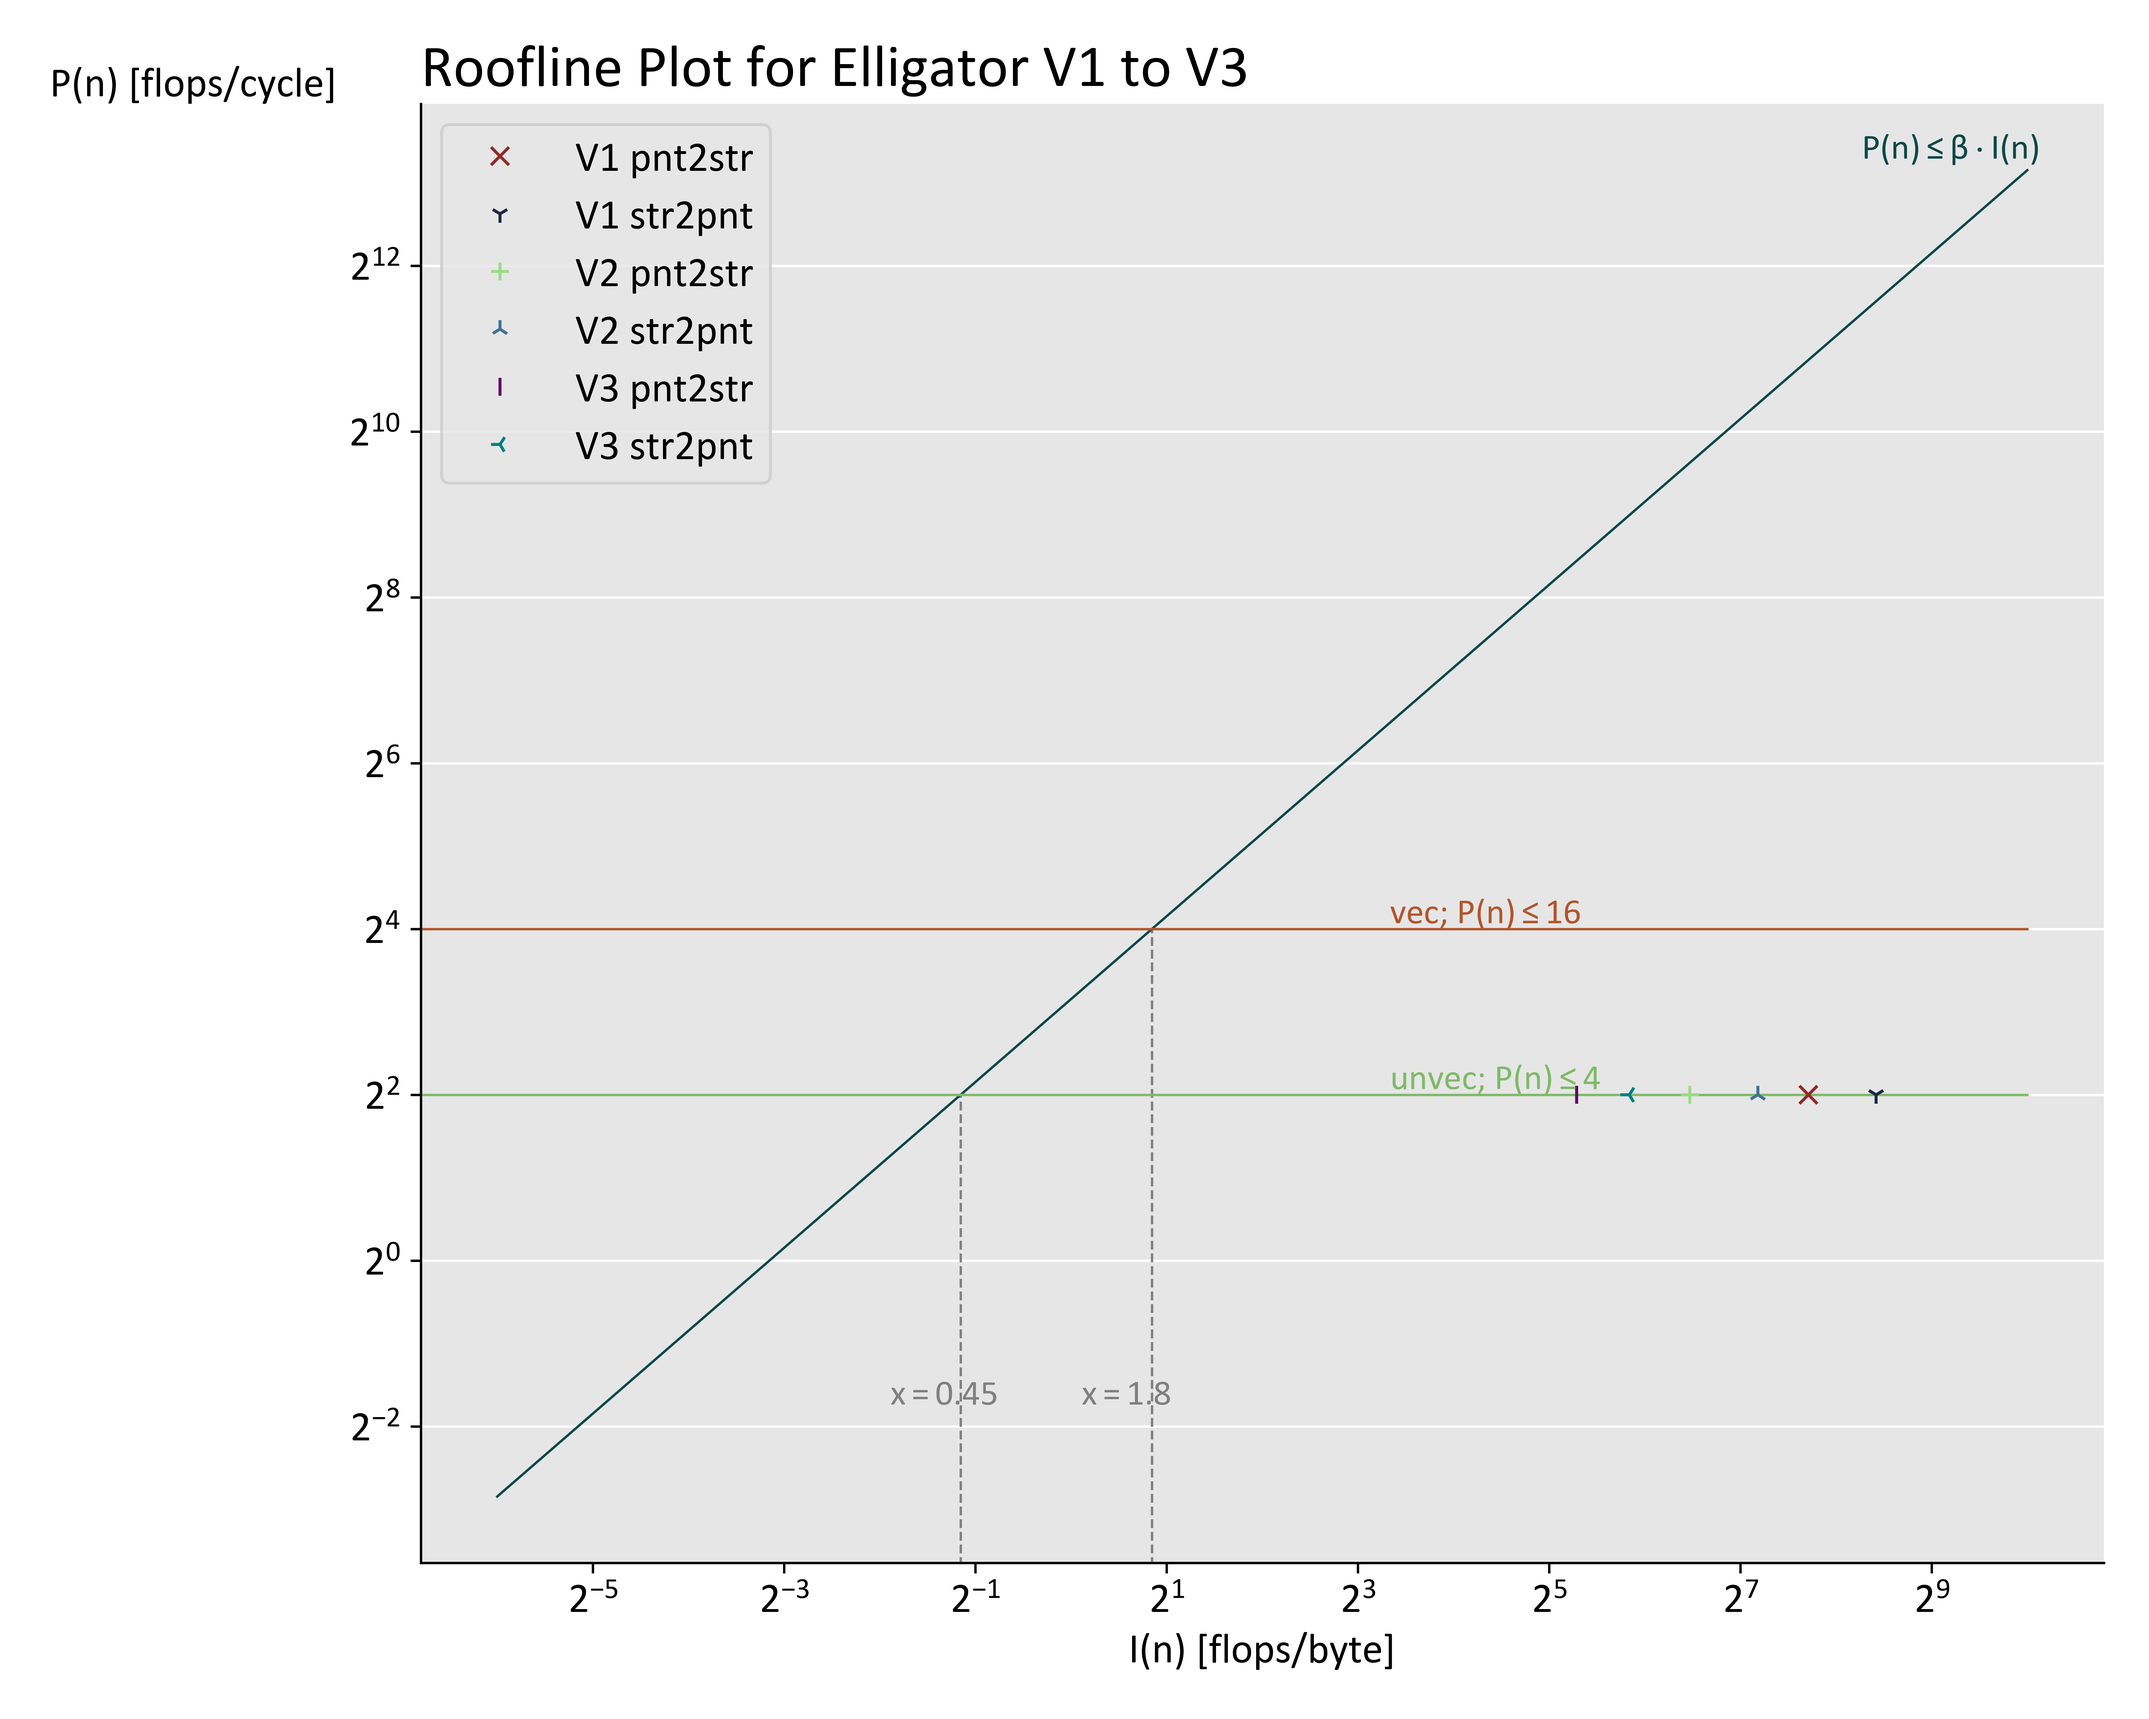
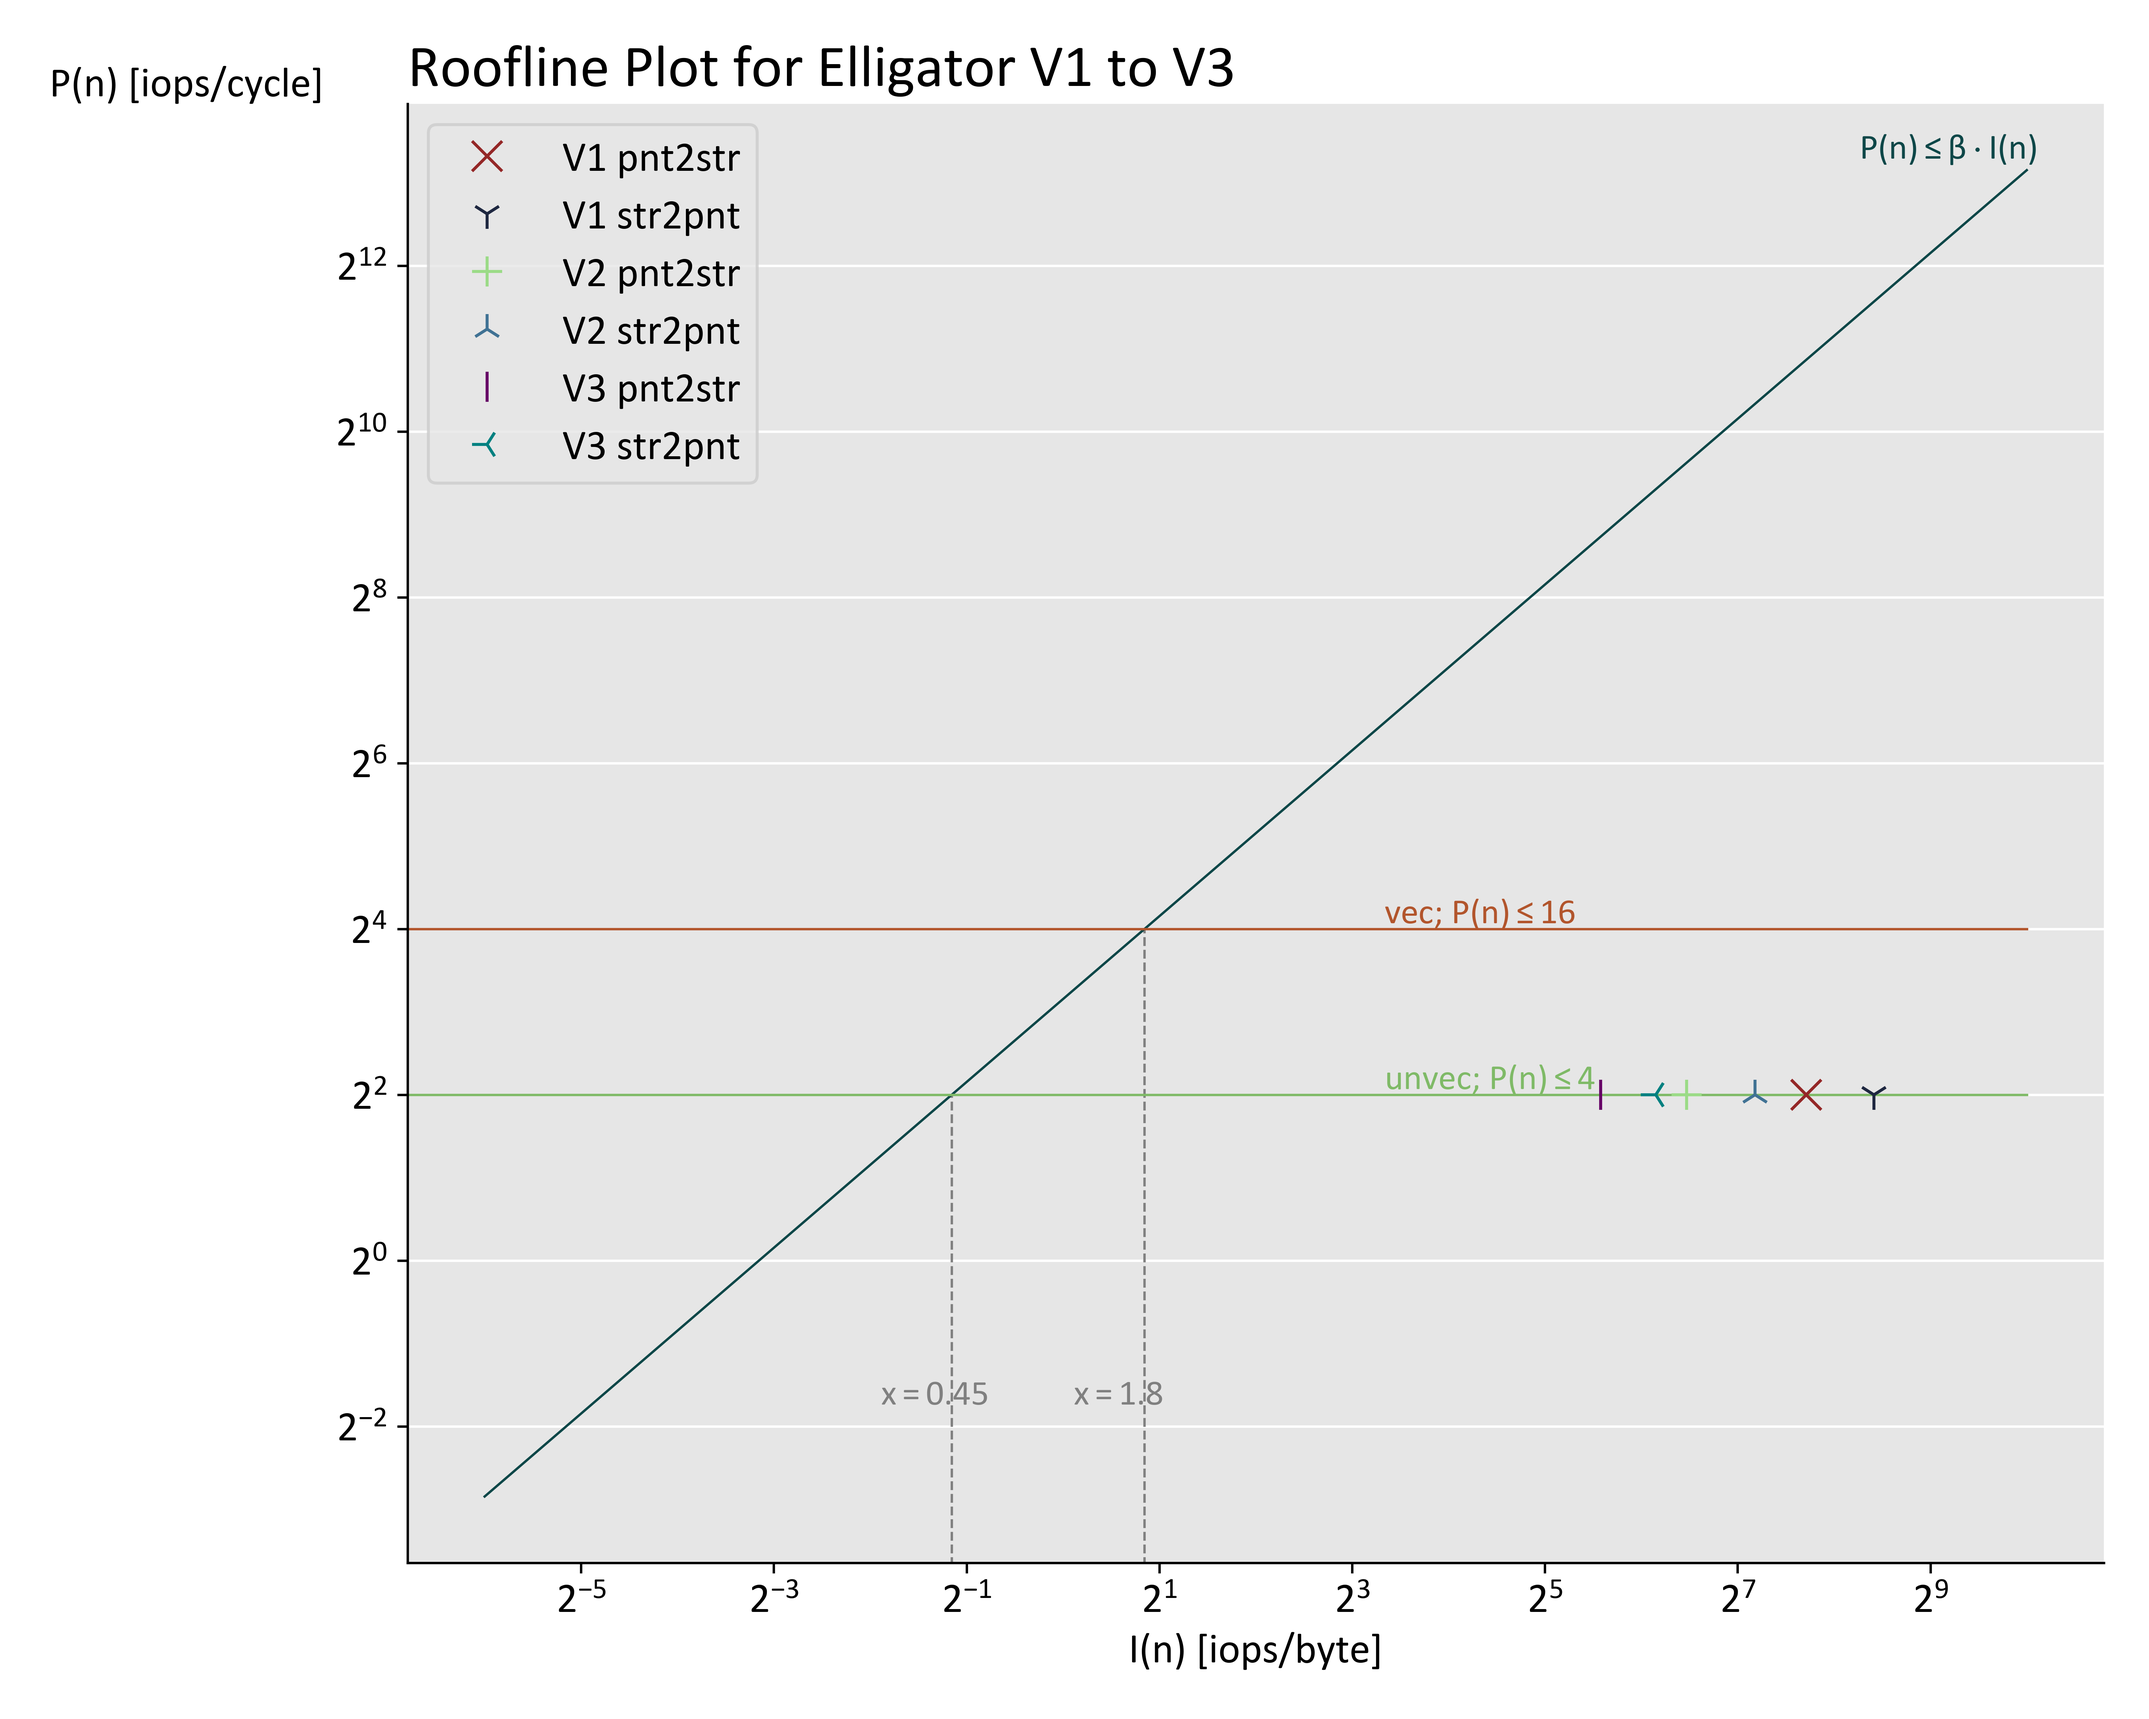
Fix roofline plot

diff --git a/timing/scripts/gen_roofline_plot.py b/timing/scripts/gen_roofline_plot.py
@@ -35,14 +35,14 @@ PLOTS_DEFAULT_PATH  = "./plot.png"
 TITLE_FONT_SIZE = 20
 LABEL_FONT_SIZE = 12
 
-X_LABEL = "I(n) [flops/byte]"
-Y_LABEL = "P(n) [flops/cycle]"
+X_LABEL = "I(n) [iops/byte]"
+Y_LABEL = "P(n) [iops/cycle]"
 
 BW_LINE_LABEL = "$P(n) \\leq \\beta \cdot I(n)$"
 
-ALU_RE_PATTERN = r"basic_(add|bitwise).*, (\d+)"
+ALU_RE_PATTERN = r"(basic|avx)_(add|bitwise|other).*, (\d+)"
 BITWISE_RE_PATTERN = r"basic_bitwise.*, (\d+)"
-MUL_RE_PATTERN = r"basic_mul.*, (\d+)"
+MUL_RE_PATTERN = r"(basic|avx)_mul.*, (\d+)"
 SHIFT_RE_PATTERN = r"basic_shift.*, (\d+)"
 DIV_RE_PATTERN = r"basic_div.*, (\d+)"
 
@@ -119,9 +119,9 @@ if __name__ == "__main__":
                 mul_ops = re.compile(MUL_RE_PATTERN).findall(data)
                 div_ops = re.compile(DIV_RE_PATTERN).findall(data)
 
-                alu_ops_tot = sum(map(lambda x: int(x[1]), alu_ops))
+                alu_ops_tot = sum(map(lambda x: int(x[2]), alu_ops))
                 shift_ops_tot = sum(map(int, shift_ops))
-                mul_ops_tot = sum(map(int, mul_ops))
+                mul_ops_tot = sum(map(lambda x: int(x[1]), mul_ops))
                 div_ops_tot = sum(map(int, div_ops))
 
                 ops_tot = alu_ops_tot + shift_ops_tot + mul_ops_tot + div_ops_tot
@@ -198,7 +198,7 @@ if __name__ == "__main__":
     # Plot dots
     markers = ["x", "1", "+", "2", "|", "3", "4"]
     for i in range(len(dots_x)):
-        ax.plot(dots_x[i], dots_y[i], marker=markers[i],
+        ax.plot(dots_x[i], dots_y[i], marker=markers[i], markersize=10,
             color=colors[color_idx], label=dots_labels[i], linestyle="None")
         color_idx = (color_idx + 1) % len(colors)
 
